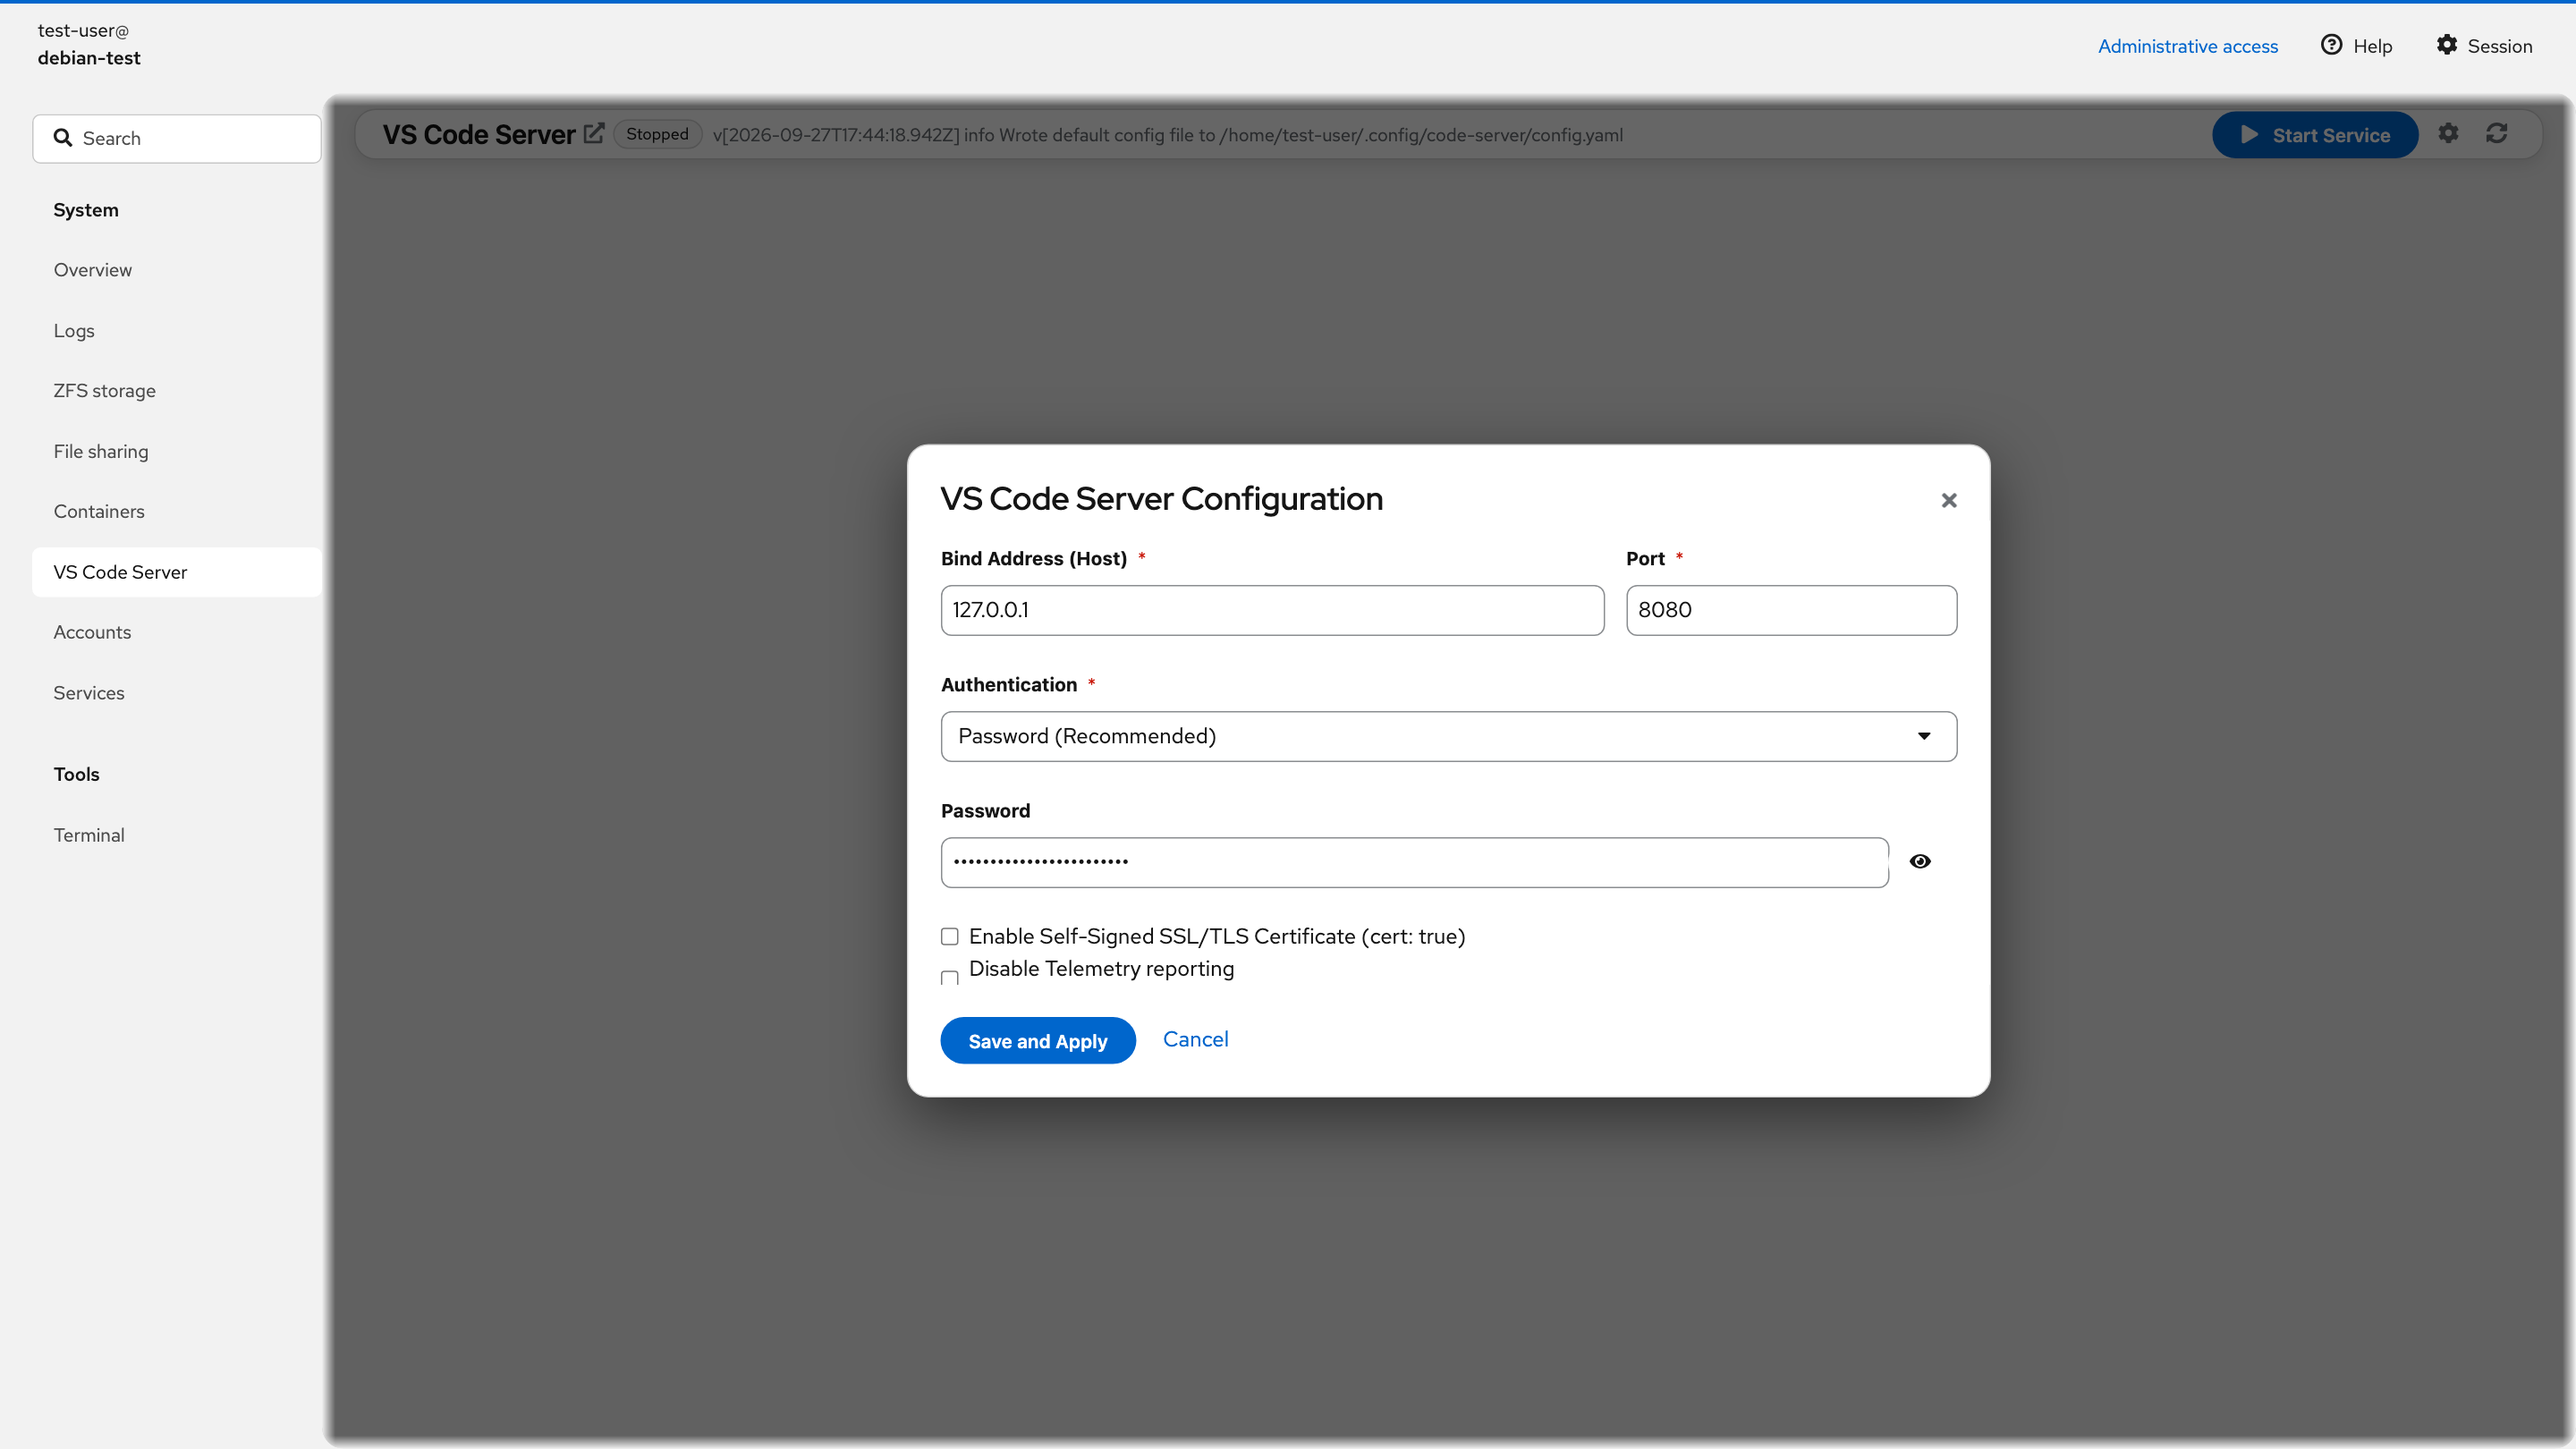
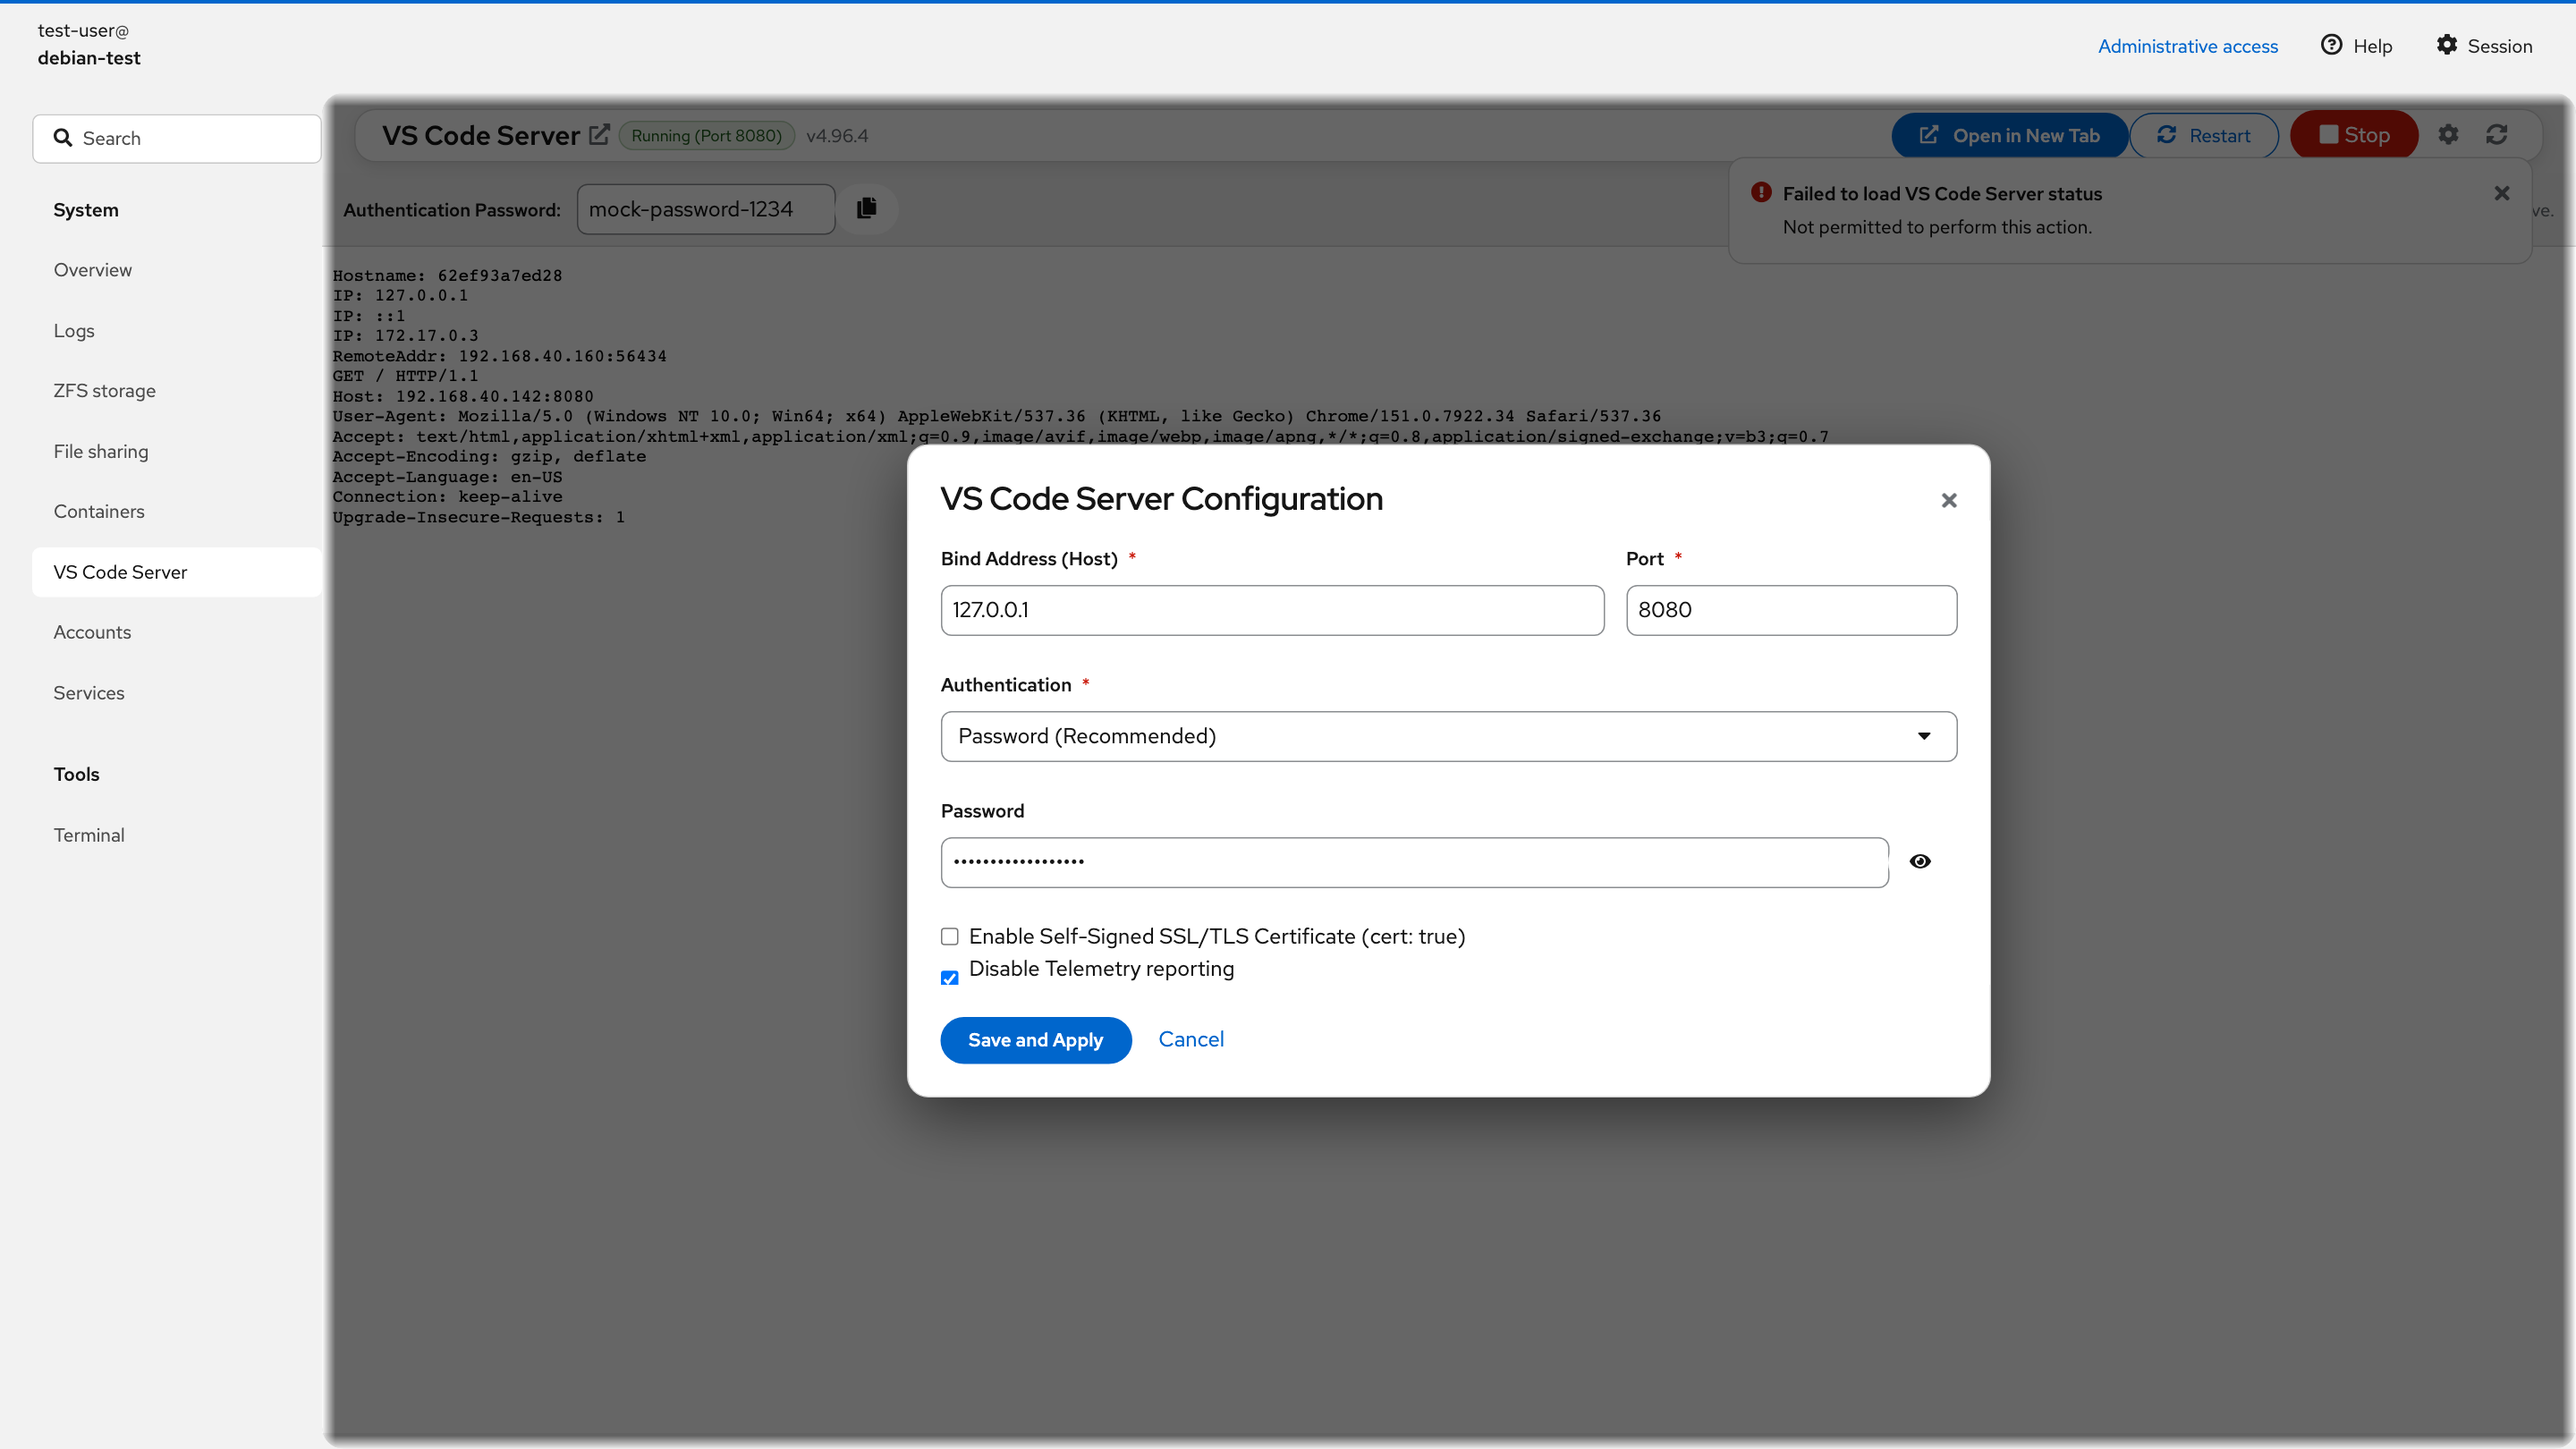
Address review feedback on code-server plugin
Enforce strict superuser requirement in codeServerClient, remove
unused route boilerplate in App.tsx, and streamline package manager
invocation in backend helper service.

diff --git a/plugins/code-server/src/App.tsx b/plugins/code-server/src/App.tsx
@@ -8,7 +8,7 @@ import {
   AlertActionCloseButton,
   Spinner,
 } from "@patternfly/react-core";
-import { useCockpitTheme, useCockpitRoute, NavMode } from "@cockpit-plugins/common";
+import { useCockpitTheme } from "@cockpit-plugins/common";
 
 import { CodeServerStatus, CodeServerConfigData } from "./types";
 import { codeServerApi, DEFAULT_MOCK_STATUS } from "./api/codeServerClient";
@@ -17,27 +17,8 @@ import { CodeServerIframe } from "./components/CodeServerIframe";
 import { InstallPrompt } from "./components/InstallPrompt";
 import { SettingsModal } from "./components/SettingsModal";
 
-const IGNORED_PREFIXES = ["code-server", "cockpit-code-server", "vscode", "index"];
-
-const parseRoute = (segments: string[]): string => {
-  const clean = segments.map((s) => s.trim().toLowerCase()).filter(Boolean);
-  if (clean.length === 0 || clean[0] === "index" || clean[0] === "main") {
-    return "main";
-  }
-  return clean[0];
-};
-
-const formatSegments = (view: string): string[] => {
-  if (view === "main") {
-    return [];
-  }
-  return [view];
-};
-
 export const App: React.FC = () => {
   useCockpitTheme();
-
-  const [activeView, setActiveView] = useCockpitRoute(parseRoute, formatSegments, IGNORED_PREFIXES);
 
   const [status, setStatus] = useState<CodeServerStatus>(DEFAULT_MOCK_STATUS);
   const [isLoading, setIsLoading] = useState<boolean>(false);

diff --git a/plugins/code-server/src/api/codeServerClient.ts b/plugins/code-server/src/api/codeServerClient.ts
@@ -73,7 +73,7 @@ export class CodeServerClient {
       args.push("--user", username);
     }
 
-    const res = await this.executeHelper(args, "try");
+    const res = await this.executeHelper(args, "require");
     return res || DEFAULT_MOCK_STATUS;
   }
 

diff --git a/plugins/code-server/backend/service_manager.py b/plugins/code-server/backend/service_manager.py
@@ -124,59 +124,24 @@ def manage_service(action: str, username: Optional[str] = None) -> Dict[str, Any
 CODE_SERVER_UPSTREAM_VERSION = "4.139.1"
 
 
-def get_system_arch() -> str:
-    machine = platform.machine().lower()
-    if machine in ("x86_64", "amd64"):
-        return "amd64"
-    if machine in ("aarch64", "arm64"):
-        return "arm64"
-    return machine
-
-
 def install_code_server(
     version: str = CODE_SERVER_UPSTREAM_VERSION,
     username: Optional[str] = None,
 ) -> Dict[str, Any]:
-    arch = get_system_arch()
-    temp_file = None
-
     try:
-        if shutil.which("apt-get") or shutil.which("dpkg"):
-            url = f"https://github.com/coder/code-server/releases/download/v{version}/code-server_{version}_{arch}.deb"
-            temp_file = f"/tmp/code-server_{version}_{arch}.deb"
-            urllib.request.urlretrieve(url, temp_file)
-
-            if shutil.which("apt-get"):
-                cmd = ["apt-get", "install", "-y", temp_file]
-            else:
-                cmd = ["dpkg", "-i", temp_file]
-
-            proc = subprocess.run(cmd, capture_output=True, text=True, timeout=180)
-            if proc.returncode != 0:
-                return {
-                    "success": False,
-                    "error": proc.stderr.strip() or f"Package installation failed (exit {proc.returncode})",
-                }
-
-        elif shutil.which("dnf") or shutil.which("rpm"):
-            url = f"https://github.com/coder/code-server/releases/download/v{version}/code-server-{version}-{arch}.rpm"
-            temp_file = f"/tmp/code-server-{version}-{arch}.rpm"
-            urllib.request.urlretrieve(url, temp_file)
-
-            if shutil.which("dnf"):
-                cmd = ["dnf", "install", "-y", temp_file]
-            else:
-                cmd = ["rpm", "-Uvh", temp_file]
-
-            proc = subprocess.run(cmd, capture_output=True, text=True, timeout=180)
-            if proc.returncode != 0:
-                return {
-                    "success": False,
-                    "error": proc.stderr.strip() or f"Package installation failed (exit {proc.returncode})",
-                }
-
+        if shutil.which("apt-get"):
+            cmd = ["apt-get", "install", "-y", "code-server"]
+        elif shutil.which("dnf"):
+            cmd = ["dnf", "install", "-y", "code-server"]
         else:
-            return {"success": False, "error": "No supported package manager (apt/dpkg or dnf/rpm) found"}
+            return {"success": False, "error": "No supported package manager (apt-get or dnf) found"}
+
+        proc = subprocess.run(cmd, capture_output=True, text=True, timeout=180)
+        if proc.returncode != 0:
+            return {
+                "success": False,
+                "error": proc.stderr.strip() or f"Package installation failed (exit {proc.returncode})",
+            }
 
         # Enable and start service
         manage_service("enable", username)
@@ -190,9 +155,3 @@ def install_code_server(
 
     except Exception as e:
         return {"success": False, "error": str(e)}
-    finally:
-        if temp_file and os.path.exists(temp_file):
-            try:
-                os.remove(temp_file)
-            except Exception:
-                pass

diff --git a/plugins/code-server/backend/tests/test_service_manager.py b/plugins/code-server/backend/tests/test_service_manager.py
@@ -51,43 +51,27 @@ def test_manage_service_invalid_action():
     assert "Invalid action" in res["error"]
 
 
-def test_get_system_arch():
-    from backend.service_manager import get_system_arch
-    with patch("platform.machine", return_value="x86_64"):
-        assert get_system_arch() == "amd64"
-    with patch("platform.machine", return_value="aarch64"):
-        assert get_system_arch() == "arm64"
-
-
 def test_install_code_server_deb_success():
     from backend.service_manager import install_code_server, CODE_SERVER_UPSTREAM_VERSION
     with patch("shutil.which", side_effect=lambda x: "/usr/bin/apt-get" if x == "apt-get" else None), \
-         patch("urllib.request.urlretrieve") as mock_dl, \
-         patch("subprocess.run") as mock_run, \
-         patch("os.path.exists", return_value=True), \
-         patch("os.remove") as mock_rm:
+         patch("subprocess.run") as mock_run:
         mock_proc = MagicMock()
         mock_proc.returncode = 0
         mock_run.return_value = mock_proc
 
         res = install_code_server(CODE_SERVER_UPSTREAM_VERSION, "test-user")
         assert res["success"] is True
-        mock_dl.assert_called_once()
         assert CODE_SERVER_UPSTREAM_VERSION in res["output"]
 
 
 def test_install_code_server_rpm_success():
     from backend.service_manager import install_code_server, CODE_SERVER_UPSTREAM_VERSION
     with patch("shutil.which", side_effect=lambda x: "/usr/bin/dnf" if x == "dnf" else None), \
-         patch("urllib.request.urlretrieve") as mock_dl, \
-         patch("subprocess.run") as mock_run, \
-         patch("os.path.exists", return_value=True), \
-         patch("os.remove") as mock_rm:
+         patch("subprocess.run") as mock_run:
         mock_proc = MagicMock()
         mock_proc.returncode = 0
         mock_run.return_value = mock_proc
 
         res = install_code_server(CODE_SERVER_UPSTREAM_VERSION, "test-user")
         assert res["success"] is True
-        mock_dl.assert_called_once()
         assert CODE_SERVER_UPSTREAM_VERSION in res["output"]

diff --git a/plugins/code-server/backend/code_server_helper.py b/plugins/code-server/backend/code_server_helper.py
@@ -10,6 +10,19 @@ if _CURRENT_DIR not in sys.path:
     sys.path.insert(0, _CURRENT_DIR)
 
 try:
+    from .config_manager import (
+        CodeServerConfig,
+        get_user_config_path,
+        parse_code_server_config,
+        write_code_server_config,
+    )
+    from .service_manager import (
+        get_binary_info,
+        get_service_status,
+        manage_service,
+        install_code_server,
+    )
+except ImportError:
     from config_manager import (
         CodeServerConfig,
         get_user_config_path,
@@ -17,19 +30,6 @@ try:
         write_code_server_config,
     )
     from service_manager import (
-        get_binary_info,
-        get_service_status,
-        manage_service,
-        install_code_server,
-    )
-except ImportError:
-    from backend.config_manager import (
-        CodeServerConfig,
-        get_user_config_path,
-        parse_code_server_config,
-        write_code_server_config,
-    )
-    from backend.service_manager import (
         get_binary_info,
         get_service_status,
         manage_service,
